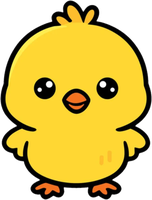
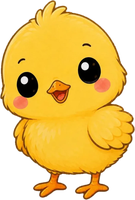
Replace the starter chick picture

diff --git a/src/App.tsx b/src/App.tsx
@@ -697,7 +697,7 @@ function App() {
               alt="Chick"
               draggable={false}
               className="absolute max-w-none select-none"
-              style={{ left: 0, top: -8, width: 40, height: 52, transform: `scaleX(${player.facing})` }}
+              style={{ left: 2, top: -10, width: 36, height: 54, transform: `scaleX(${player.facing})` }}
             />
           )}
 
@@ -715,10 +715,12 @@ function App() {
             >
               {(isHen
                 ? [{ x: player.facing === 1 ? 33.5 : 6.5, y: 17 }]
-                : [
-                    { x: 11.5, y: 28 },
-                    { x: 27.5, y: 28 },
-                  ]
+                : // The chick picture looks to the right, so its eyes sit at
+                  // different heights and swap sides when it turns around.
+                  [
+                    { x: 9.5, y: 24 },
+                    { x: 25.5, y: 20 },
+                  ].map(eye => ({ x: player.facing === 1 ? eye.x : 40 - eye.x, y: eye.y }))
               ).flatMap((eye, eyeIndex) =>
                 [0, 0.3].map(delay => (
                   <circle
